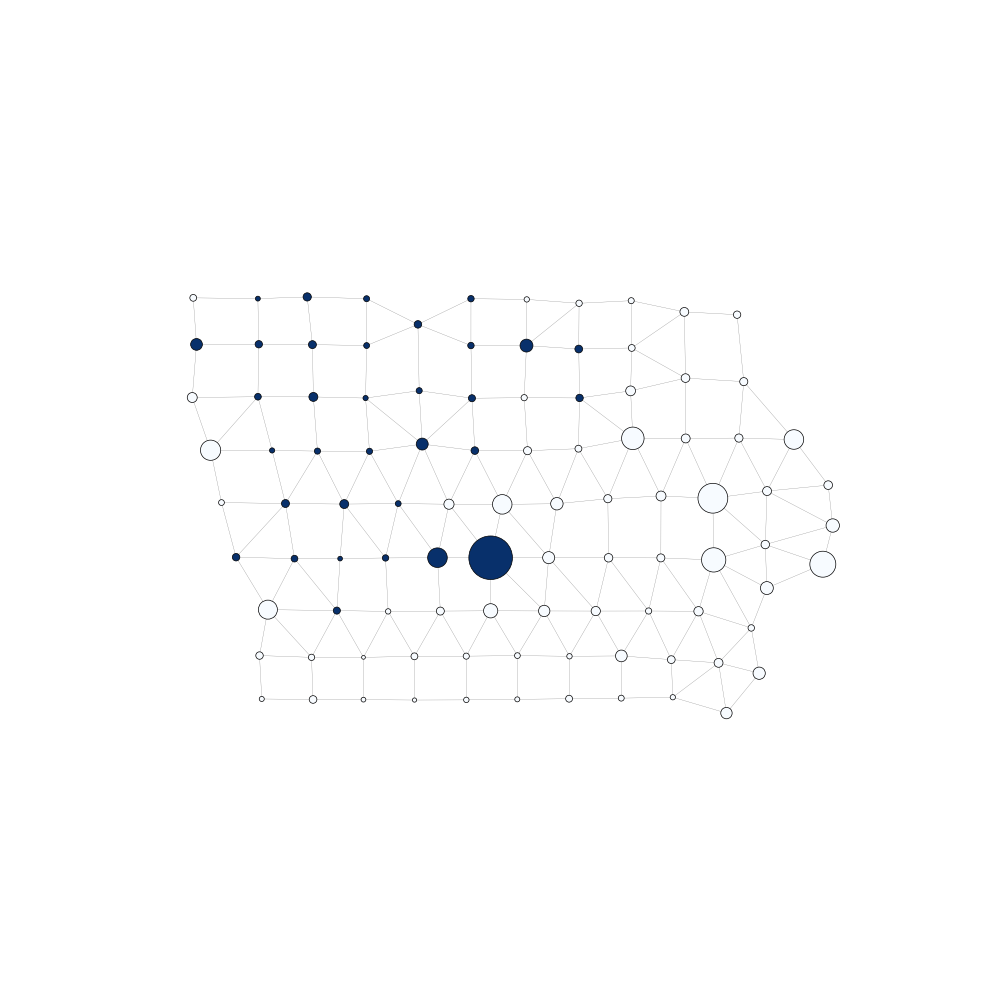
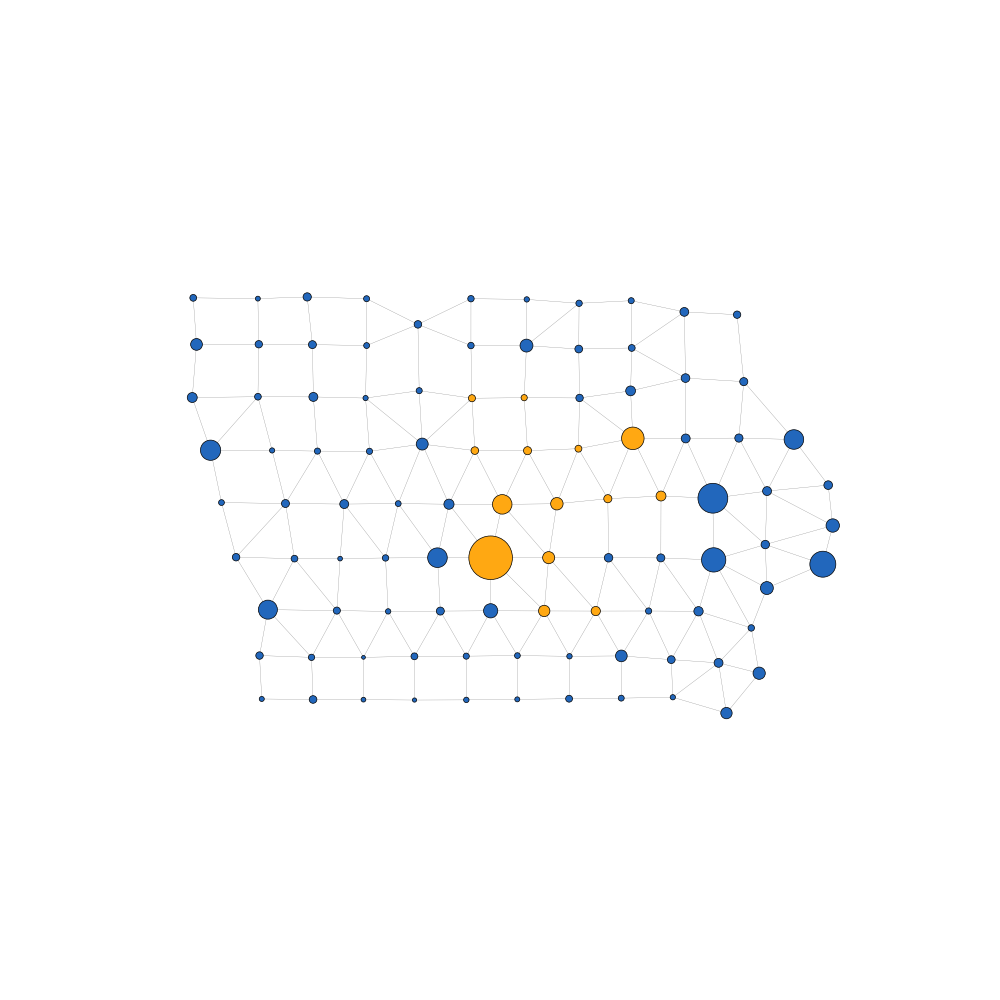
added new color palette

diff --git a/Reproduction/Reproduction_Notebooks/iowa/generate_kclustered_iowa_plots.py b/Reproduction/Reproduction_Notebooks/iowa/generate_kclustered_iowa_plots.py
@@ -16,12 +16,53 @@ import warnings
 import tqdm
 from collections import deque, defaultdict
 import math
+from matplotlib.colors import LinearSegmentedColormap, TwoSlopeNorm
+
 
 RHO = 0.3
 K = 10
 num_samples = 500
 num_rhos = 100
 
+def colormap(rho):
+    diverging_cmap = LinearSegmentedColormap.from_list(
+    "rho_diverging",
+    ["#2267BC", "#ffffff", "#FFA812"]
+    )
+    # Norm that maps 0→left, RHO→center (white), 1→right
+    norm = TwoSlopeNorm(vmin=0, vcenter=RHO, vmax=1)
+
+    return diverging_cmap, norm
+
+def visualize_iowa(g, rho ):
+    pos = {
+    node: (
+        float(g.nodes[node]["INTPTLON"]),
+        math.degrees(math.log(math.tan(math.pi/4 + math.radians(float(g.nodes[node]["INTPTLAT"]))/2)))
+    )
+    for node in g.nodes()
+    }
+
+    pop = {
+        node: g.nodes[node]["TOTPOP"]
+        for node in g.nodes()
+    }
+
+    sizes = [pop[n] / 500 for n in g.nodes]  # adjust scaling factor
+    fig, ax = plt.subplots(figsize=(10, 10))
+
+    node_rhos = [g.nodes[node]["x_pop"] / g.nodes[node]["TOTPOP"] for node in g.nodes()]
+
+    cmap, norm = colormap(rho)
+    node_colors = [cmap(norm(r)) for r in node_rhos]
+
+    nx.draw_networkx_nodes(g, pos=pos, node_size=sizes, node_color=node_colors,
+                            edgecolors='black', linewidths=0.5, ax=ax)
+    nx.draw_networkx_edges(g, pos=pos, edge_color="black", width=0.2, alpha=0.5, ax=ax)
+
+
+    ax.set_aspect('equal')
+    ax.axis('off')
 
 def populate_cluster_random(start_node, G, tot_x_pop):
     
@@ -68,7 +109,6 @@ def generate_kclust_grid(G, rho, k):
 
     target_pop = rho * metrics.property_sum(G, "TOTPOP") / k 
 
-    # remove seeds = random.sample(...) above the loop
 
     for _ in range(k):
         y_nodes = [node for node in G.nodes if G.nodes[node]["x_pop"] == 0]
@@ -95,40 +135,13 @@ def generate_kclust_grid(G, rho, k):
 
     return G, real_rho, components
 
-def visualize_iowa(g):
-    pos = {
-    node: (
-        float(g.nodes[node]["INTPTLON"]),
-        math.degrees(math.log(math.tan(math.pi/4 + math.radians(float(g.nodes[node]["INTPTLAT"]))/2)))
-    )
-    for node in g.nodes()
-    }
-
-    pop = {
-        node: g.nodes[node]["TOTPOP"]
-        for node in g.nodes()
-    }
-
-    sizes = [pop[n] / 500 for n in g.nodes]  # adjust scaling factor
-    fig, ax = plt.subplots(figsize=(10, 10))
-
-    node_rhos = [g.nodes[node]["x_pop"] / g.nodes[node]["TOTPOP"] for node in g.nodes()]
-
-    nx.draw_networkx_edges(g, pos=pos, edge_color="black", width=0.2, alpha=0.5, ax=ax)
-    nx.draw_networkx_nodes(g, pos=pos, node_size=sizes, node_color=node_rhos,
-                            cmap=plt.cm.Blues, vmin=0, vmax=1,
-                            edgecolors='black', linewidths=0.5, ax=ax)
-
-    ax.set_aspect('equal')
-    ax.axis('off')
-
 g = gerrychain.Graph.from_json("reproduction_data/ia_files/ia_counties_2020.json")
 for node in g.nodes():
     g.nodes[node]["x_pop"] = 0
     g.nodes[node]["y_pop"] = 0
 
 g_, real_rho, num_components = generate_kclust_grid(g, RHO, k=K)
-visualize_iowa(g_)
+visualize_iowa(g_, RHO)
 plt.savefig(f"Reproduction/Reproduction_Figures/Iowa/multicluster_iowa_visualization_rho={RHO},k={K}.png")
 
 real_rhos = []

diff --git a/Reproduction/Reproduction_Notebooks/grid_figs_scripts/fig-4_plot_metrics_on_random_ideal_configs_on_90x90_grids.py b/Reproduction/Reproduction_Notebooks/grid_figs_scripts/fig-4_plot_metrics_on_random_ideal_configs_on_90x90_grids.py
@@ -1,0 +1,55 @@
+import sys
+from pathlib import Path
+sys.path.insert(0, str(Path(__file__).parent))          # for grid_figs_helpers
+sys.path.insert(0, str(Path(__file__).parents[3]))      # for pipeline (3 levels up = capy-bara/)     # for pipeline (3 levels up = capy-bara/)
+import pipeline.metrics as metrics
+import networkx as nx
+import matplotlib.pyplot as plt
+import numpy as np
+import pandas as pd
+import gerrychain.grid
+import random
+from collections import deque
+import warnings
+random.seed(42)
+import seaborn as sns
+from grid_figs_helpers import generate_ch_grid, generate_const_grid, generate_clust_grid, generate_isol_grid, generate_kclust_grid
+
+METHOD = "random" # "bfs" or "random"
+num_rhos = 20
+num_samples = 5
+
+graphs_clust = [] 
+graphs_isol = []
+xvals = []
+graphs_kclust = []
+x_vals_kclust =[]
+
+for _ in range(num_samples):
+    rhos = np.linspace(.1, .5, num_rhos)
+
+    for rho in rhos: 
+        graphs_clust.append(generate_clust_grid(90, 90, rho, 1000, method = METHOD))
+        graphs_isol.append(generate_isol_grid(90, 90, rho, 1000))
+        xvals.append(rho)
+    # accumulate as list of tuples
+    for rho in rhos:
+        G, real_rho, num_components = generate_kclust_grid(90, 90, rho, 1000, k=8, method=METHOD)
+        graphs_kclust.append((G, real_rho, num_components))
+
+half_edge_clust = [metrics.half_edge(G.graph, "x_pop", "y_pop") for G in graphs_clust]
+half_edge_isol = [metrics.half_edge(G.graph, "x_pop", "y_pop") for G in graphs_isol]
+half_edge_kclust = [metrics.half_edge(G.graph, "x_pop", "y_pop") for G, _, _ in graphs_kclust]
+x_vals_kclust = [real_rho for _, real_rho, _ in graphs_kclust]
+
+plt.scatter(xvals, half_edge_clust, label="One Cluster", s=1, color="#006B3C")
+plt.scatter(x_vals_kclust, half_edge_kclust, label="Multiple Clusters", s=1, color="#8db600")
+plt.scatter(xvals, half_edge_isol, label="Isolated", s=1, color="#69359c")
+
+
+
+plt.legend(fontsize=8, handlelength=1.5, handleheight=.75, handletextpad=0.4, borderpad=0.4)
+plt.xlabel("Minority Proportion")
+plt.ylabel("Capy")
+plt.savefig(f"Reproduction/Reproduction_Figures/Idealized_Grids/fig-4_capy_on_idealized_grids_{METHOD}_clusters.png", dpi=150, bbox_inches="tight")
+

diff --git a/Reproduction/Reproduction_Notebooks/iowa/make_clustered_iowa_plots.py b/Reproduction/Reproduction_Notebooks/iowa/make_clustered_iowa_plots.py
@@ -16,12 +16,24 @@ import warnings
 import tqdm
 from collections import deque, defaultdict
 import math
+from matplotlib.colors import LinearSegmentedColormap, TwoSlopeNorm
+
 
 RHO = 0.3
 num_samples = 500
 num_rhos = 100
 
-def visualize_iowa(g):
+def colormap(rho):
+    diverging_cmap = LinearSegmentedColormap.from_list(
+    "rho_diverging",
+    ["#2267BC", "#ffffff", "#FFA812"]
+    )
+    # Norm that maps 0→left, RHO→center (white), 1→right
+    norm = TwoSlopeNorm(vmin=0, vcenter=RHO, vmax=1)
+
+    return diverging_cmap, norm
+
+def visualize_iowa(g, rho ):
     pos = {
     node: (
         float(g.nodes[node]["INTPTLON"]),
@@ -40,10 +52,13 @@ def visualize_iowa(g):
 
     node_rhos = [g.nodes[node]["x_pop"] / g.nodes[node]["TOTPOP"] for node in g.nodes()]
 
-    nx.draw_networkx_edges(g, pos=pos, edge_color="black", width=0.2, alpha=0.5, ax=ax)
-    nx.draw_networkx_nodes(g, pos=pos, node_size=sizes, node_color=node_rhos,
-                            cmap=plt.cm.Blues, vmin=0, vmax=1,
+    cmap, norm = colormap(rho)
+    node_colors = [cmap(norm(r)) for r in node_rhos]
+
+    nx.draw_networkx_nodes(g, pos=pos, node_size=sizes, node_color=node_colors,
                             edgecolors='black', linewidths=0.5, ax=ax)
+    nx.draw_networkx_edges(g, pos=pos, edge_color="black", width=0.2, alpha=0.5, ax=ax)
+    
 
     ax.set_aspect('equal')
     ax.axis('off')
@@ -130,5 +145,5 @@ plt.tight_layout()
 plt.savefig("Reproduction/Reproduction_Figures/Iowa/capy_by_rho_onecluster_iowa.png")
 
 g_, real_rho = populate_cluster_random(seed, g, RHO* metrics.property_sum(g, "TOTPOP"))
-visualize_iowa(g_)
+visualize_iowa(g_, RHO)
 plt.savefig(f"Reproduction/Reproduction_Figures/Iowa/onecluster_iowa_visualization_rho={RHO}.png")

diff --git a/Reproduction/Reproduction_Notebooks/iowa/make_isol_iowa_plots.py b/Reproduction/Reproduction_Notebooks/iowa/make_isol_iowa_plots.py
@@ -16,12 +16,24 @@ import warnings
 import tqdm
 from collections import deque, defaultdict
 import math
+from matplotlib.colors import LinearSegmentedColormap, TwoSlopeNorm
+
 
 RHO = 0.3
 num_samples = 500
 num_rhos = 100
 
-def visualize_iowa(g):
+def colormap(rho):
+    diverging_cmap = LinearSegmentedColormap.from_list(
+    "rho_diverging",
+    ["#2267BC", "#ffffff", "#FFA812"]
+    )
+    # Norm that maps 0→left, RHO→center (white), 1→right
+    norm = TwoSlopeNorm(vmin=0, vcenter=RHO, vmax=1)
+
+    return diverging_cmap, norm
+
+def visualize_iowa(g, rho ):
     pos = {
     node: (
         float(g.nodes[node]["INTPTLON"]),
@@ -40,10 +52,13 @@ def visualize_iowa(g):
 
     node_rhos = [g.nodes[node]["x_pop"] / g.nodes[node]["TOTPOP"] for node in g.nodes()]
 
-    nx.draw_networkx_edges(g, pos=pos, edge_color="black", width=0.2, alpha=0.5, ax=ax)
-    nx.draw_networkx_nodes(g, pos=pos, node_size=sizes, node_color=node_rhos,
-                            cmap=plt.cm.Blues, vmin=0, vmax=1,
+    cmap, norm = colormap(rho)
+    node_colors = [cmap(norm(r)) for r in node_rhos]
+
+    nx.draw_networkx_nodes(g, pos=pos, node_size=sizes, node_color=node_colors,
                             edgecolors='black', linewidths=0.5, ax=ax)
+    nx.draw_networkx_edges(g, pos=pos, edge_color="black", width=0.2, alpha=0.5, ax=ax)
+
 
     ax.set_aspect('equal')
     ax.axis('off')
@@ -140,7 +155,7 @@ plt.tight_layout()
 plt.savefig("Reproduction/Reproduction_Figures/Iowa/capy_by_rho_isol_iowa.png")
 
 g_, real_rho = make_random_isolated_config(g, RHO)
-visualize_iowa(g_)
+visualize_iowa(g_, RHO)
 plt.savefig(f"Reproduction/Reproduction_Figures/Iowa/isol_iowa_visualization_rho={RHO}.png")
 
     

diff --git a/Reproduction/Reproduction_Notebooks/grid_figs_scripts/plot_synthetic_diffusion.py b/Reproduction/Reproduction_Notebooks/grid_figs_scripts/plot_synthetic_diffusion.py
@@ -13,6 +13,7 @@ from collections import deque
 import warnings
 import seaborn as sns
 from grid_figs_helpers import generate_ch_grid, generate_const_grid, generate_clust_grid, generate_isol_grid, generate_kclust_grid, draw_grid_as_checkerboard
+from matplotlib.colors import LinearSegmentedColormap, TwoSlopeNorm
 random.seed(53)
 
 M = 1000
@@ -56,6 +57,9 @@ def visualize_diffusion(graphs, rhos):
         rows += 1
     fig, axes = plt.subplots(rows, 5, figsize=(15, 3 *rows), squeeze = False, constrained_layout=True)
     fig.subplots_adjust(hspace=0.4)
+    diverging_cmap = LinearSegmentedColormap.from_list("rho_diverging", ["#2267BC", "#ffffff", "#FFA812"])
+    norm = TwoSlopeNorm(vmin=0, vcenter=rhos[-1], vmax=1) #diverges at the global rho, here thats rhos[-1] because the rho of the wetted region is 0 at the end of the process (this might be fragile)
+
     for i, G in enumerate(graphs):
         ax = axes[i // 5, i % 5]
 
@@ -68,7 +72,9 @@ def visualize_diffusion(graphs, rhos):
         for node in nodelist:
             grid[node[1], node[0]] = G.nodes[node]["rho"]
 
-        ax.imshow(grid, cmap="Blues", vmin=0, vmax=1, origin="lower", interpolation="nearest")     
+
+        ax.imshow(grid, cmap=diverging_cmap, norm=norm, origin="lower", interpolation="nearest")
+
         ax.set_aspect('equal')
   
         for x in range(width + 1):

diff --git a/Reproduction/Reproduction_Notebooks/grid_figs_scripts/fig-4_plot_grid_asymptotics.py b/Reproduction/Reproduction_Notebooks/grid_figs_scripts/fig-4_plot_grid_asymptotics.py
@@ -40,10 +40,10 @@ for rho in x:
     const.append(edge_a_const(rho))
     one_clust.append(edge_a_one_clust(rho))
 
-plt.plot(x, isol, label="Isolated")
-plt.plot(x, ch, label="Checkerboard")
-plt.plot(x, const, label="Constant")
-plt.plot(x, one_clust, label="One Cluster")
+plt.plot(x, isol, label="Isolated", color = "#69359c")
+plt.plot(x, ch, label="Checkerboard", color =  "#1560bd")
+plt.plot(x, const, label="Constant", color = "#ffa812")
+plt.plot(x, one_clust, label="One Cluster", color = "#006B3C")
 
 plt.legend(fontsize=8, handlelength=1.5, handleheight=.75, handletextpad=0.4, borderpad=0.4)
 plt.xlabel("Minority Proportion")
@@ -66,10 +66,10 @@ for rho in x:
     const.append(half_edge_a_const(rho))
     one_clust.append(half_edge_a_one_clust(rho))
 
-plt.plot(x, isol, label="Isolated")
-plt.plot(x, ch, label="Checkerboard")
-plt.plot(x, const, label="Constant")
-plt.plot(x, one_clust, label="One Cluster")
+plt.plot(x, isol, label="Isolated", color = "#69359c")
+plt.plot(x, ch, label="Checkerboard", color =  "#1560bd")
+plt.plot(x, const, label="Constant", color = "#ffa812")
+plt.plot(x, one_clust, label="One Cluster", color = "#006B3C")
 
 plt.legend(fontsize=8, handlelength=1.5, handleheight=.75, handletextpad=0.4, borderpad=0.4)
 

diff --git a/Reproduction/Reproduction_Notebooks/iowa/make_uniform_iowa_plots.py b/Reproduction/Reproduction_Notebooks/iowa/make_uniform_iowa_plots.py
@@ -49,12 +49,12 @@ def visualize_iowa(g, rho ):
 
     node_rhos = [g.nodes[node]["x_pop"] / g.nodes[node]["TOTPOP"] for node in g.nodes()]
 
-    map, norm = colormap(rho)
+    cmap, norm = colormap(rho)
+    node_colors = [cmap(norm(r)) for r in node_rhos]
 
     nx.draw_networkx_edges(g, pos=pos, edge_color="black", width=0.2, alpha=0.5, ax=ax)
-    nx.draw_networkx_nodes(g, pos=pos, node_size=sizes, node_color=node_rhos, 
-                            vmin=0, vmax=1,
-                            edgecolors='black', linewidths=0.5, ax=ax)
+    nx.draw_networkx_nodes(g, pos=pos, node_size=sizes, node_color=node_colors,
+                        edgecolors='black', linewidths=0.5, ax=ax)
 
     ax.set_aspect('equal')
     ax.axis('off')
@@ -107,4 +107,4 @@ visualize_iowa(make_uniform_iowa(g, RHO), RHO)
 plt.savefig(f"Reproduction/Reproduction_Figures/Iowa/uniform_iowa_visualization_rho={RHO}.png")
 
 plot_rho_colorbar_diverging(RHO)
-plt.savefig(f"Reproduction/Reproduction_Figures/Iowa/blues_rho_colorbar_rho={RHO}.png")
+plt.savefig(f"Reproduction/Reproduction_Figures/Iowa/divergent_rho_colorbar_rho={RHO}.png")

diff --git a/Reproduction/Reproduction_Notebooks/grid_figs_scripts/grid_figs_helpers.py b/Reproduction/Reproduction_Notebooks/grid_figs_scripts/grid_figs_helpers.py
@@ -11,6 +11,8 @@ from collections import deque
 import warnings
 random.seed(42)
 import seaborn as sns
+from matplotlib.colors import ListedColormap
+
 
 def populate_ch_grid(G, rho, M, eps): #give graph x and y pop'scripts
     for node in G.graph.nodes:
@@ -219,8 +221,9 @@ def draw_grid_as_checkerboard(G_obj, id, rho, ax=None, title=""):
 
     if ax is None:
         _, ax = plt.subplots()
-    ax.imshow(grid, cmap="bwr", vmin=0, vmax=1, origin="lower",
-              interpolation="nearest")
+    cmap = ListedColormap(["#FFA812", "#006B3C"])
+    ax.imshow(grid, cmap=cmap, vmin=0, vmax=1, origin="lower", interpolation="nearest")
+
     ax.axis("off")
     plt.savefig(f"Reproduction/Reproduction_Figures/Idealized_Grids/fig-5_{id}_grid_visualization_rho={rho}.png", dpi=150, bbox_inches="tight")
     return ax

diff --git a/Reproduction/Reproduction_Notebooks/iowa/make_iowa_files.py b/Reproduction/Reproduction_Notebooks/iowa/make_iowa_files.py
@@ -42,12 +42,12 @@ CENSUS_KEY = "7e1b79ce2adac634987a423b6d7fb99510fee50e"
 FIPS = 19
 
 census_2020 = Census(
-    key=CENSUS_KEY,      # We use the provided Census API key.
-    year=2020    # We specify that we would like to use the 2020 Census data.
+    key=CENSUS_KEY,      
+    year=2020    
 )
 census_2010 = Census(
-    key=CENSUS_KEY,      # We use the provided Census API key.
-    year=2010    # We specify that we would like to use the 2020 Census data.
+    key=CENSUS_KEY,      
+    year=2010    
 )
 
 # Iowa 2020 counties
